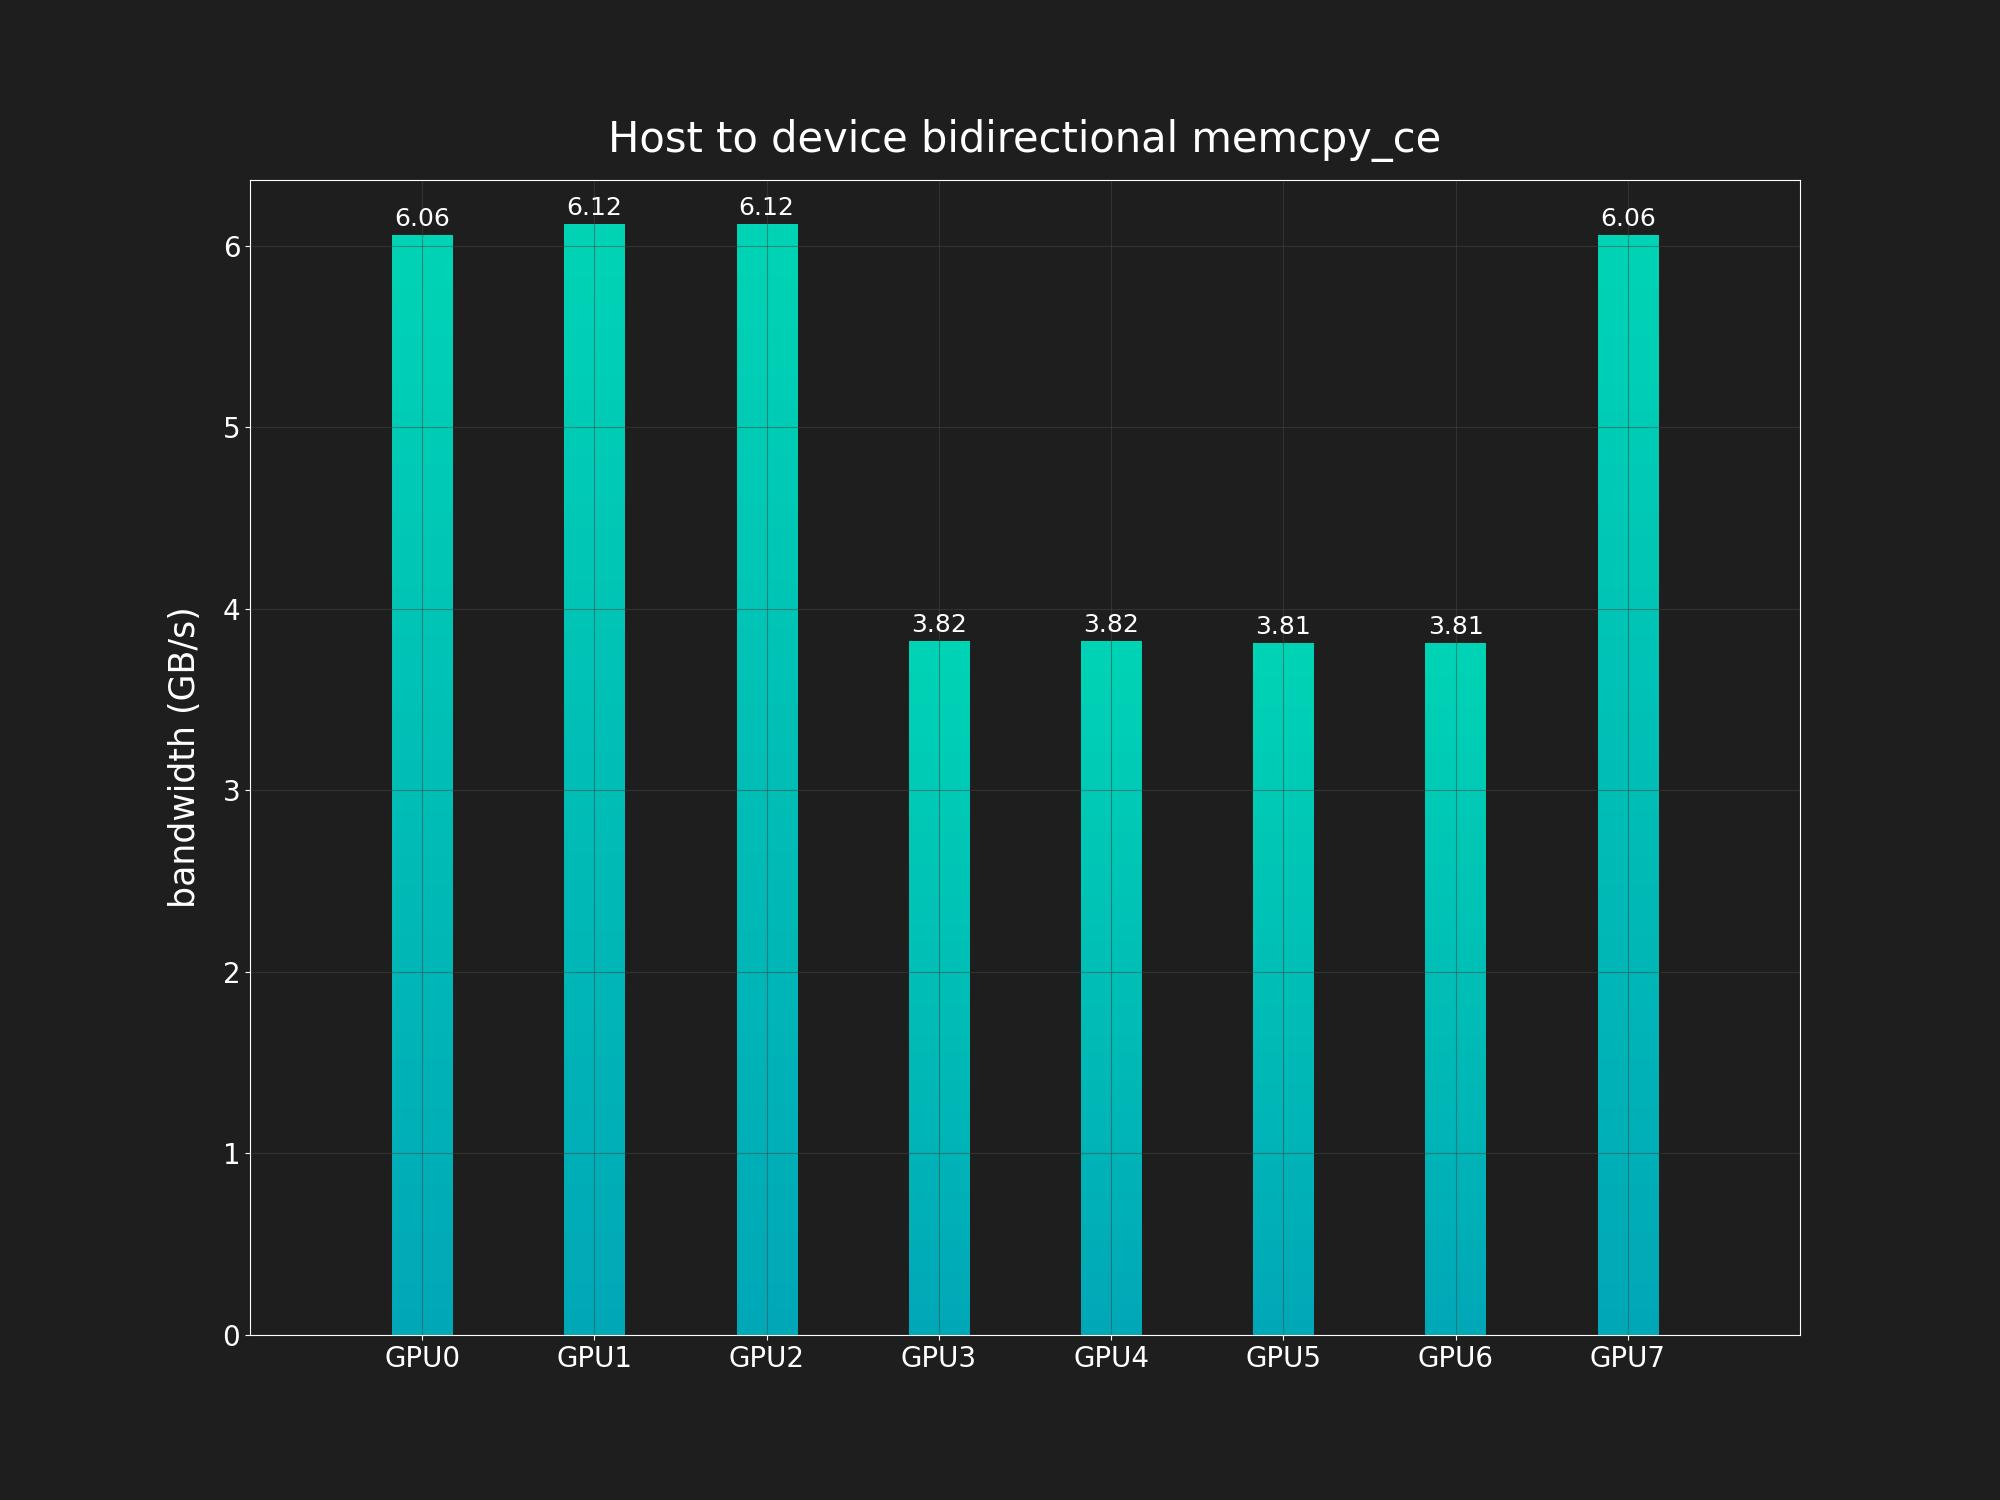
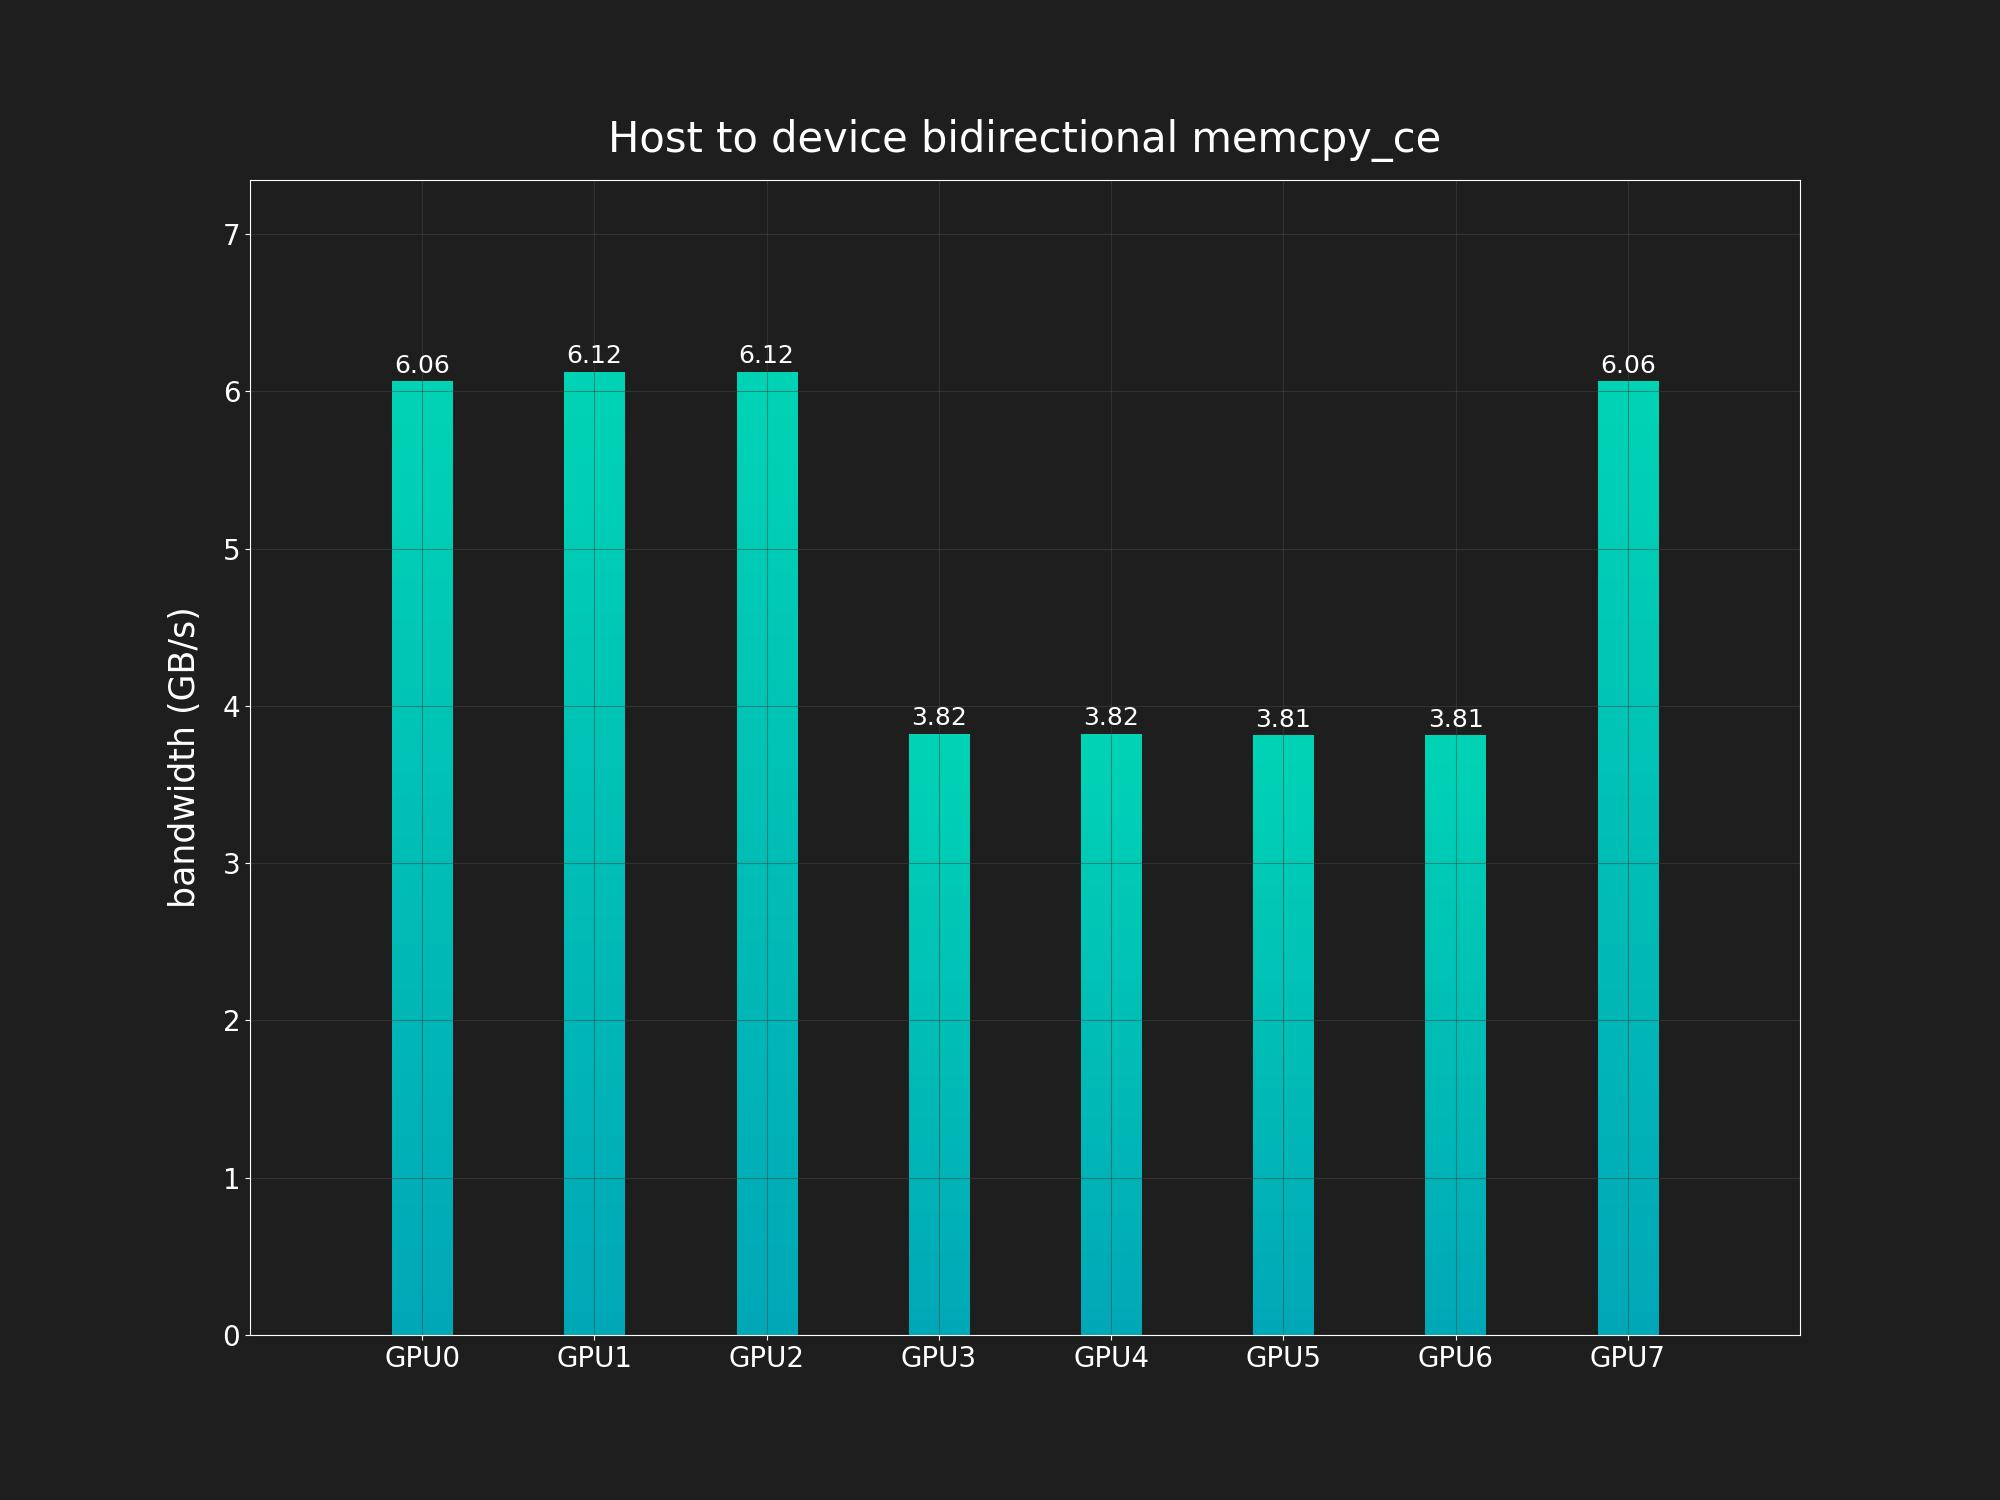
updated d2d

diff --git a/graph_generators/opt_vs_org_graph.py b/graph_generators/opt_vs_org_graph.py
@@ -1,23 +1,18 @@
 import matplotlib.pyplot as plt
+import matplotlib.patches as mpatches
 import numpy as np
 
+from data_structures.nv_bandwidth_struct import NvBandwidth
+from graph_generators.gradient_bars import gradient_bars
+from utils.colors import ColorPalette
 from utils.handle_data import save_graphs
-
-LIGHT_BLUE = "#00D4B5"
-MEDIUM_BLUE = '#00A5B5'
-LIGHT_PINK = '#EB859A'
-MEDIUM_PINK = '#E0516D'
-LIGHT_GREEN = '#B7CD67'
-MEDIUM_GREEN = '#8DC72B'
-LIGHT_ORANGE = "#E69500"
-MEDIUM_ORANGE = '#F0A95A'
 
 def org_vs_opt_bar_graph_nvbandwidth(data_org, data_opt, graph_config, file_name, test_name):
     if list(data_org.columns) != list(data_opt.columns):
         raise ValueError("data_org and data_opt must have the same columns")
 
     if len(data_org.columns) == 1:
-        plot_one_column_data(data_org, data_opt, graph_config, file_name, test_name)
+        plot_four_graphs_opt_vs_org(data_org, data_opt, graph_config, file_name, test_name)
     else:
         x = np.arange(len(data_org.columns))
 
@@ -25,9 +20,10 @@ def org_vs_opt_bar_graph_nvbandwidth(data_org, data_opt, graph_config, file_name
         fig, ax = plt.subplots()
 
         # Plot the bars
-        rect1 = ax.bar(x - graph_config.BAR_WIDTH / 2, data_org.mean(), graph_config.BAR_WIDTH, label='Original xml',
-                   color=LIGHT_BLUE)
-        rect2 = ax.bar(x + graph_config.BAR_WIDTH / 2, data_opt.mean(), graph_config.BAR_WIDTH, label = 'Optimal xml', color = LIGHT_ORANGE)
+        rect1 = ax.bar(x - graph_config.BAR_WIDTH / 2 - 0.01, data_org.mean(), graph_config.BAR_WIDTH)
+        gradient_bars(rect1, NvBandwidth.TYPE_ORG)
+        rect2 = ax.bar(x + graph_config.BAR_WIDTH / 2 + 0.01, data_opt.mean(), graph_config.BAR_WIDTH)
+        gradient_bars(rect2, NvBandwidth.TYPE_OPT)
 
         ax.bar_label(rect1, padding=3, fontsize=graph_config.BAR_LABEL_FONT_SIZE)
         ax.bar_label(rect2, padding=3, fontsize=graph_config.BAR_LABEL_FONT_SIZE)
@@ -39,34 +35,80 @@ def org_vs_opt_bar_graph_nvbandwidth(data_org, data_opt, graph_config, file_name
         ax.set_ylabel(graph_config.Y_AXIS)
         ax.set_title(test_name)
 
-        # Extend the y-limit to make room for the legend
+        # Extend the axes-limit to make room for the legend
         ax.set_ylim(0, max(data_org.max().max(), data_opt.max().max()) * 1.2)
-        ax.legend()
+        ax.set_xlim(-1, len(data_org.columns))
+
+        ax.legend(handles = [
+            mpatches.Patch(color=ColorPalette.COLOR_THEME_OPT_VS_ORG[NvBandwidth.TYPE_ORG]['start'], label='Original xml'),
+            mpatches.Patch(color=ColorPalette.COLOR_THEME_OPT_VS_ORG[NvBandwidth.TYPE_OPT]['start'], label ='Optimal xml')
+        ])
+
         save_graphs(plt, file_name)
+def plot_four_graphs_opt_vs_org(data_org, data_opt, graph_config, file_name, test_name):
+    fig, ax = plt.subplots(2, 2, figsize=(30,15))
+    print("HERE")
 
-def plot_one_column_data(data_org, data_opt, graph_config, file_name, test_name):
-    x = np.arange(6)
+    # Get global min and max for the y-axis range
+    y_min = 0  # Minimum of the first columns
+    y_max =max(data_org.iloc[:, 0].max(),data_opt.iloc[:, 0].max())  + 50  # Maximum of the first column
 
-    # Create the plot
-    fig, ax = plt.subplots()
+    # Plot each data point in its respective subplot
+    idx = 0
+    for i in range(2):  # Row index
+        for j in range(2):  # Column index
+            bar_org = ax[i, j].bar(0.8, data_org.iloc[idx, 0], width=0.15, align = 'center' ,label=data_org.columns[0])
+            bar_opt = ax[i, j].bar(1.2, data_opt.iloc[idx, 0], width=0.15, align = 'center', label=data_opt.columns[0])
 
-    # Plot the bars
-    rect1 = ax.bar(2, data_org.mean(), 0.4, label='Original xml',
-                   color=LIGHT_BLUE)
-    rect2 = ax.bar(3,data_opt.mean(), 0.4, label='Optimal xml',
-                   color=LIGHT_ORANGE)
+            ax[i, j].bar_label(bar_org, padding=3, fontsize=graph_config.BAR_LABEL_FONT_SIZE)
+            ax[i, j].bar_label(bar_opt, padding=3, fontsize=graph_config.BAR_LABEL_FONT_SIZE)
 
-    ax.bar_label(rect1, padding=3, fontsize=graph_config.BAR_LABEL_FONT_SIZE)
-    ax.bar_label(rect2, padding=3, fontsize=graph_config.BAR_LABEL_FONT_SIZE)
+            ax[i, j].set_ylim(y_min, y_max)  # Set the same y-axis range
+            ax[i, j].set_title(data_org.index[idx])  # Title as row name
+            ax[i, j].set_ylabel(graph_config.Y_AXIS)
 
-    ax.set_xticks(x)
-    ax.tick_params(axis='x', labelbottom=False)
-    ax.set_xlabel(graph_config.X_AXIS)
+            ax[i, j].set_xlim(0, 2)  # Set x range
+            ax[i, j].tick_params(axis='x', bottom=False, labelbottom=False)  # Remove x-ticks
 
-    ax.set_ylabel(graph_config.Y_AXIS)
-    ax.set_title(test_name)
+            ax[i, j].grid(True)
+            gradient_bars(bar_org, NvBandwidth.TYPE_ORG)
+            gradient_bars(bar_opt, NvBandwidth.TYPE_OPT)
 
-    # Extend the y-limit to make room for the legend
-    ax.set_ylim(0, max(data_org.max().max(), data_opt.max().max()) * 1.2)
-    ax.legend()
+            idx += 1
+
+    fig.legend(handles=[
+        mpatches.Patch(color=ColorPalette.COLOR_THEME_OPT_VS_ORG[NvBandwidth.TYPE_ORG]['start'], label='Original xml'),
+        mpatches.Patch(color=ColorPalette.COLOR_THEME_OPT_VS_ORG[NvBandwidth.TYPE_OPT]['start'], label='Optimal xml')
+    ])
+    fig.suptitle(test_name, fontsize=graph_config.TITLE_SIZE)
+
+    # Save the graph without clipping issues
     save_graphs(plt, file_name)
+    plt.close(fig)
+
+# def plot_one_column_data(data_org, data_opt, graph_config, file_name, test_name):
+#     x = np.arange(6)
+#
+#     # Create the plot
+#     fig, ax = plt.subplots()
+#
+#     # Plot the bars
+#     rect1 = ax.bar(2, data_org.mean(), 0.4, label='Original xml')
+#     rect2 = ax.bar(3,data_opt.mean(), 0.4, label='Optimal xml')
+#
+#     ax.bar_label(rect1, padding=3, fontsize=graph_config.BAR_LABEL_FONT_SIZE)
+#     ax.bar_label(rect2, padding=3, fontsize=graph_config.BAR_LABEL_FONT_SIZE)
+#
+#     ax.set_xticks(x)
+#     ax.tick_params(axis='x', labelbottom=False)
+#     ax.set_xlabel(graph_config.X_AXIS)
+#
+#     ax.set_ylabel(graph_config.Y_AXIS)
+#     ax.set_title(test_name)
+#
+#     # Extend the y-limit to make room for the legend
+#     ax.set_ylim(0, max(data_org.max().max(), data_opt.max().max()) * 1.2)
+#     ax.legend()
+#     save_graphs(plt, file_name)
+
+

diff --git a/graph_generators/bar_graph.py b/graph_generators/bar_graph.py
@@ -25,6 +25,7 @@ def plot_bar_graph(data, graph_config, file_name, test_name, test_type = 0):
     ax.set_xticklabels(data.columns)
 
     # create more space for legend by increasing the y axes range
+    ax.set_ylim(0, max(data.max().max(), data.max().max()) * 1.2)
     ax.set_ylabel(graph_config.Y_AXIS)
     ax.set_title(test_name)
 
@@ -37,9 +38,8 @@ def plot_bar_graph(data, graph_config, file_name, test_name, test_type = 0):
 
 def plot_four_graphs(data, graph_config, file_name, test_name, test_type = 0):
     fig, ax = plt.subplots(2, 2, figsize=(30,15))
-    x = [1]
+    x=[1]
 
-    print(data)
     # Get global min and max for the y-axis range
     y_min = 0 # Minimum of the first columns
     y_max = data.iloc[:, 0].max() + 50  # Maximum of the first column
